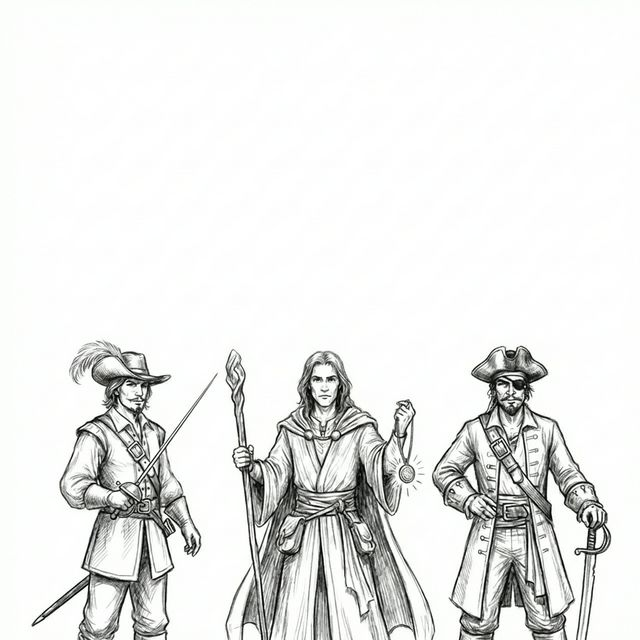
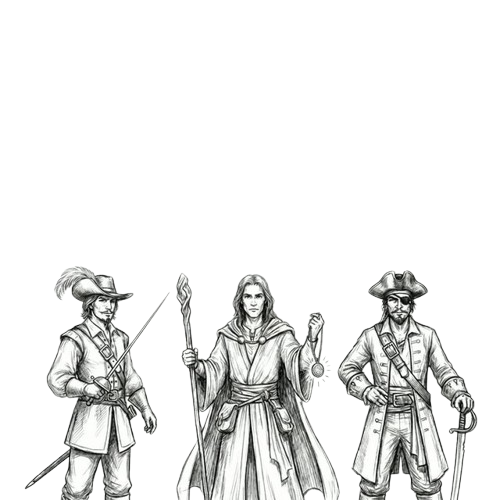
Fix Map Visibility via Pseudo & Align Chars (v0.9.22)

diff --git a/js/app.js b/js/app.js
@@ -2,15 +2,15 @@ import { Router } from './router.js';
 import { CONFIG } from './config.js';
 import CharacterList from './components/CharacterList.js';
 import DiceRoller from './components/DiceRoller.js';
-import Settings from './components/Settings.js?v=0.9.21';
-import CharacterSheet from './components/CharacterSheet.js?v=0.9.21';
+import Settings from './components/Settings.js?v=0.9.22';
+import CharacterSheet from './components/CharacterSheet.js?v=0.9.22';
 import CreateWizard from './components/CreateWizard.js';
 import { AdventureTab } from './components/AdventureTab.js';
-import { AuthService } from './services/AuthService.js?v=0.9.21';
-import { CampaignDetail } from './components/CampaignDetail.js?v=0.9.21';
-import { Dice } from './dice.js?v=0.9.21';
-import { Storage } from './storage.js?v=0.9.21';
-import { CampaignService } from './services/CampaignService.js?v=0.9.21';
+import { AuthService } from './services/AuthService.js?v=0.9.22';
+import { CampaignDetail } from './components/CampaignDetail.js?v=0.9.22';
+import { Dice } from './dice.js?v=0.9.22';
+import { Storage } from './storage.js?v=0.9.22';
+import { CampaignService } from './services/CampaignService.js?v=0.9.22';
 
 class App {
     constructor() {

diff --git a/js/components/CharacterList.js b/js/components/CharacterList.js
@@ -109,8 +109,8 @@ export default class CharacterList {
 
     renderList(characters) {
         const bgHtml = `
-            <div class="fixed-char-bg" style="position: fixed; bottom: 85px; left: 50%; transform: translateX(-50%); width: 100%; max-width: 500px; z-index: 0; pointer-events: none; opacity: 0.8; mask-image: linear-gradient(to top, black 60%, transparent 100%); -webkit-mask-image: linear-gradient(to top, black 60%, transparent 100%);">
-                <img src="assets/empty_characters_transparent.png?v=0.9.19" alt="" style="width: 100%; mix-blend-mode: multiply;">
+            <div class="fixed-char-bg" style="position: fixed; bottom: 70px; left: 50%; transform: translateX(-50%); width: 100%; max-width: 500px; z-index: 0; pointer-events: none; opacity: 0.9; mask-image: linear-gradient(to top, black 80%, transparent 100%); -webkit-mask-image: linear-gradient(to top, black 80%, transparent 100%);">
+                <img src="assets/empty_characters_transparent.png?v=0.9.22" alt="" style="width: 100%;">
             </div>
         `;
 

diff --git a/css/style.css b/css/style.css
@@ -52,15 +52,28 @@ body {
     line-height: 1.6;
     color: var(--text-ink);
     background-color: var(--bg-paper);
-    background-image: url('../assets/global_map_bg.png?v=0.9.19');
-    background-repeat: repeat;
-    background-size: 400px;
-    background-blend-mode: multiply;
-    background-position: center top;
     margin: 0;
     padding: 0;
     overflow-x: hidden;
     -webkit-tap-highlight-color: transparent;
+    position: relative;
+    min-height: 100vh;
+}
+
+body::before {
+    content: "";
+    position: fixed;
+    top: 0;
+    left: 0;
+    width: 100%;
+    height: 100%;
+    background-image: url('../assets/global_map_bg.png?v=0.9.22');
+    background-repeat: repeat;
+    background-size: 500px;
+    opacity: 0.6;
+    z-index: -1;
+    pointer-events: none;
+    mix-blend-mode: multiply;
 }
 
 input,

diff --git a/index.html b/index.html
@@ -62,8 +62,8 @@
     <!-- Supabase JS -->
     <script src="https://cdn.jsdelivr.net/npm/@supabase/supabase-js@2"></script>
     <!-- App Config -->
-    <script src="js/config.js?v=0.9.21" type="module"></script>
-    <script type="module" src="js/app.js?v=0.9.21"></script>
+    <script src="js/config.js?v=0.9.22" type="module"></script>
+    <script type="module" src="js/app.js?v=0.9.22"></script>
 </body>
 
 </html>

diff --git a/js/config.js b/js/config.js
@@ -1,5 +1,5 @@
 export const CONFIG = {
-    APP_VERSION: '0.9.21',
+    APP_VERSION: '0.9.22',
     APP_NAME: '7th Sea',
     BUILD_DATE: new Date().toLocaleDateString('it-IT')
 };

diff --git a/service-worker.js b/service-worker.js
@@ -1,4 +1,4 @@
-const CACHE_NAME = '7th-sea-sheet-v0.9.21';
+const CACHE_NAME = '7th-sea-sheet-v0.9.22';
 const ASSETS_TO_CACHE = [
     './',
     './index.html',
